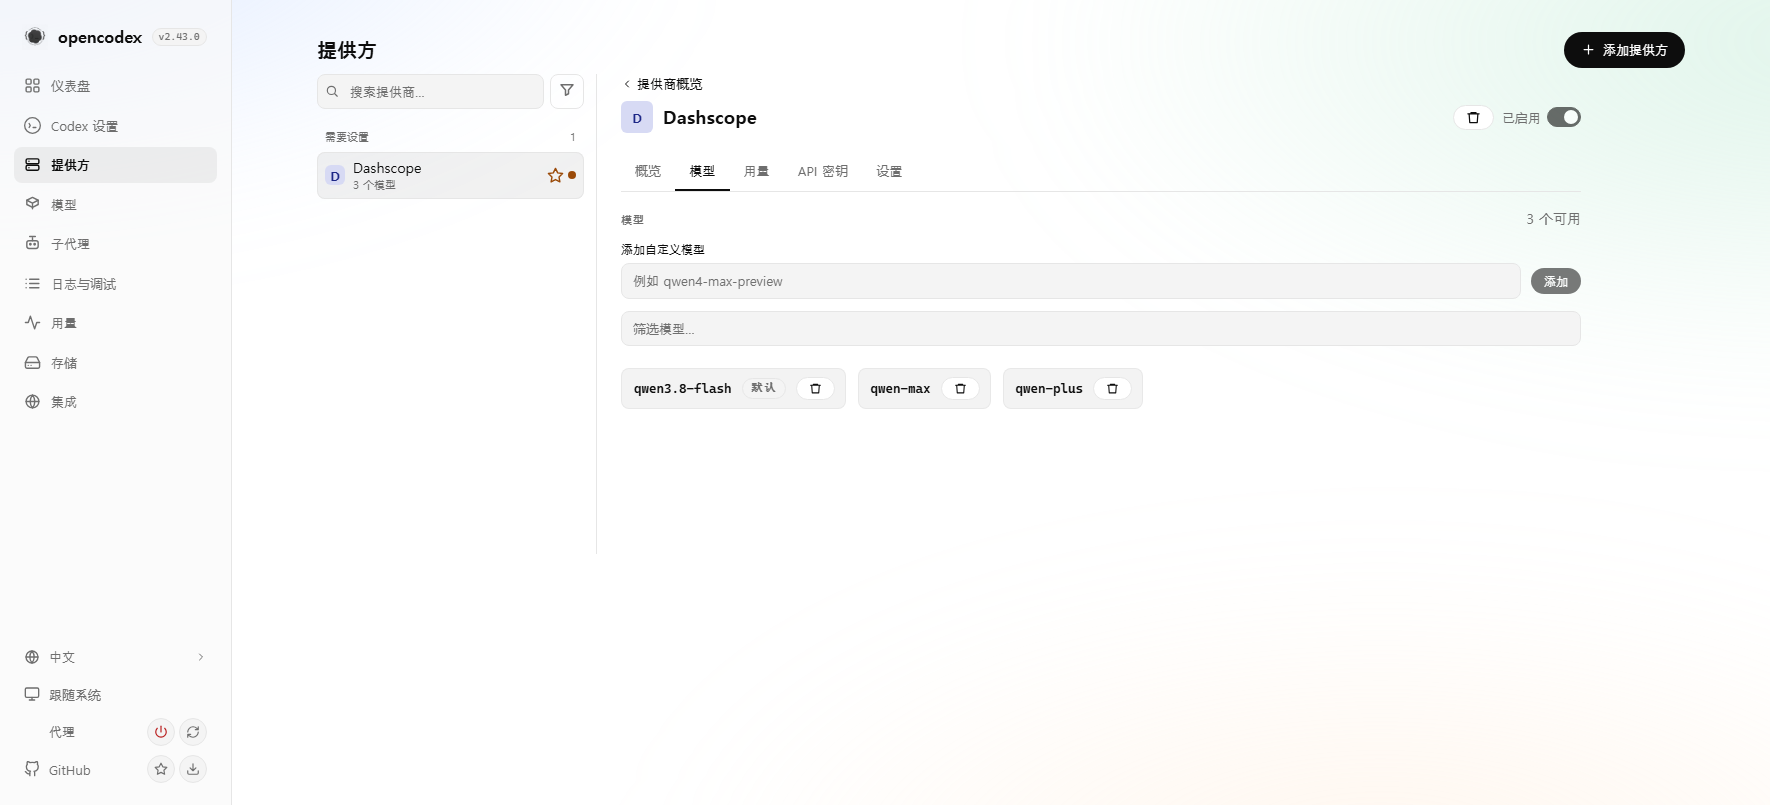
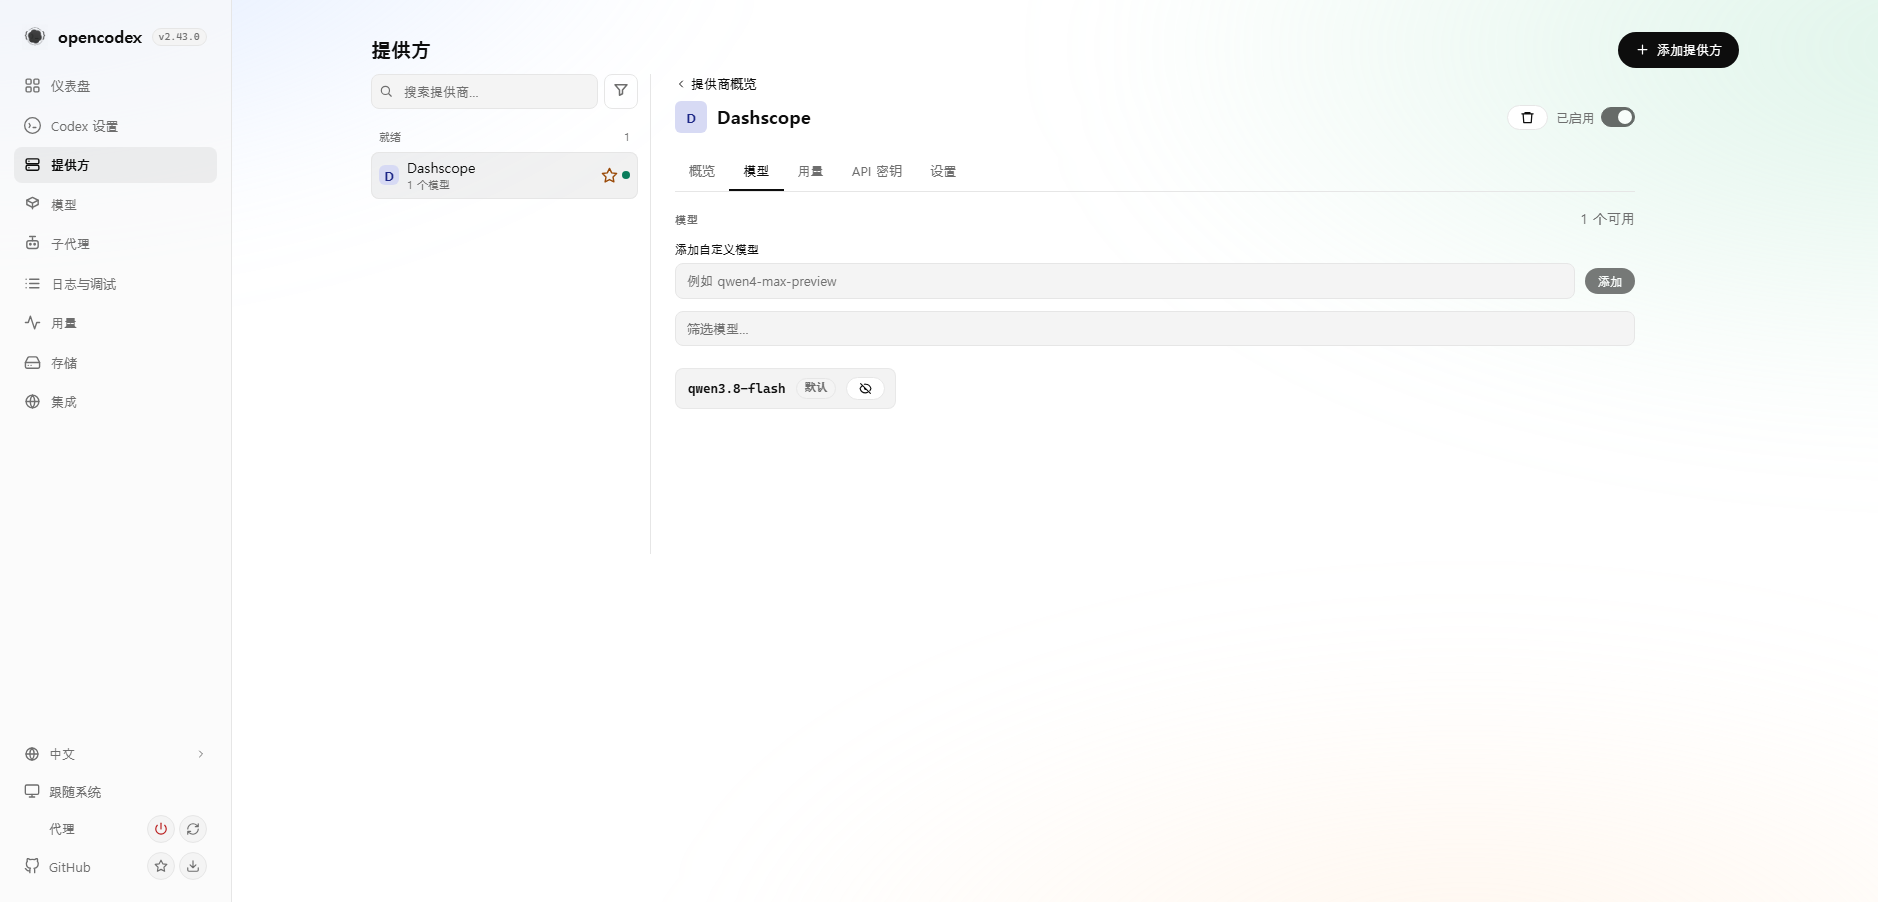
fix(gui): distinguish hidden provider models

diff --git a/gui/src/components/provider-workspace/ProviderModels.tsx b/gui/src/components/provider-workspace/ProviderModels.tsx
@@ -7,7 +7,7 @@ import { useEffect, useMemo, useRef, useState } from "react";
 import { useT } from "../../i18n/shared";
 import type { WorkspaceItem } from "../../provider-workspace/catalog";
 import { filterModels } from "../../provider-workspace/report";
-import { IconTrash } from "../../icons";
+import { IconEyeOff, IconTrash } from "../../icons";
 import { putModelVisibility } from "../../model-visibility";
 import { encodedModelIdCollides } from "../../../../src/providers/slug-codec";
 
@@ -178,8 +178,8 @@ export default function ProviderModels({
   };
 
   const removeModel = async (modelId: string) => {
-    if (removingModelId || !window.confirm(t("models.customDeleteConfirm", { name: modelId }))) return;
     const customModel = customModels.find(model => model.modelId === modelId && model.id);
+    if (removingModelId || !window.confirm(t(customModel ? "models.customDeleteConfirm" : "models.hideConfirm", { name: modelId }))) return;
     const visibilityTarget = { id: modelId, ...(item.name === "openai" ? { native: true } : {}) };
     setRemovingModelId(modelId);
     setCustomError("");
@@ -307,7 +307,9 @@ export default function ProviderModels({
           {visibleModels.map(modelId => {
             const isDefault = modelId === item.defaultModel;
             const isSelected = selectedSet.has(modelId);
+            const isCustom = customModels.some(model => model.modelId === modelId && model.id);
             const copied = copiedId === modelId;
+            const removeLabel = t(isCustom ? "models.customDelete" : "models.hide");
             return (
               <li key={modelId} className="pws-model-chip">
                 <button
@@ -326,10 +328,12 @@ export default function ProviderModels({
                   className="btn btn-ghost btn-sm btn-icon-only"
                   onClick={() => { void removeModel(modelId); }}
                   disabled={customSaving || removingModelId !== null}
-                  aria-label={t("models.customDelete")}
-                  title={t("models.customDelete")}
+                  aria-label={removeLabel}
+                  title={removeLabel}
                 >
-                  <IconTrash style={{ width: 13, height: 13 }} aria-hidden="true" />
+                  {isCustom
+                    ? <IconTrash style={{ width: 13, height: 13 }} aria-hidden="true" />
+                    : <IconEyeOff style={{ width: 13, height: 13 }} aria-hidden="true" />}
                 </button>
               </li>
             );

diff --git a/gui/tests/provider-model-custom-add.test.tsx b/gui/tests/provider-model-custom-add.test.tsx
@@ -299,7 +299,7 @@ test("a custom model stays visible when its visibility update fails", async () =
   await act(async () => { root.unmount(); });
 });
 
-test("discovered models can be removed from the local catalog", async () => {
+test("discovered models are labeled as hidden and removed from the local catalog", async () => {
   const requests: Array<{ url: string; method: string; body: unknown }> = [];
   globalThis.fetch = (async (input, init) => {
     if (!init?.method || init.method === "GET") return Response.json([]);
@@ -310,7 +310,11 @@ test("discovered models can be removed from the local catalog", async () => {
     });
     return Response.json({ ok: true });
   }) as typeof fetch;
-  testWindow.confirm = () => true;
+  let confirmation = "";
+  testWindow.confirm = message => {
+    confirmation = String(message);
+    return true;
+  };
 
   let refreshes = 0;
   const { root, container } = await mountProviderModels(
@@ -321,11 +325,14 @@ test("discovered models can be removed from the local catalog", async () => {
 
   const discoveredChip = [...container.querySelectorAll(".pws-model-chip")]
     .find(chip => chip.querySelector(".pws-model-id")?.textContent === "claude-sonnet-5")!;
+  const hideButton = discoveredChip.querySelector<HTMLButtonElement>('button[aria-label="Hide"]')!;
+  expect(hideButton.title).toBe("Hide");
   await act(async () => {
-    discoveredChip.querySelector<HTMLButtonElement>('button[aria-label="Delete"]')!.click();
+    hideButton.click();
     await Promise.resolve();
   });
 
+  expect(confirmation).toBe("Hide the claude-sonnet-5 model from the catalog?");
   expect(requests).toEqual([{
     url: "http://localhost:10100/api/model-visibility",
     method: "PUT",
@@ -363,7 +370,7 @@ test("native OpenAI models use a native visibility target when removed", async (
   await act(async () => { await Promise.resolve(); });
 
   await act(async () => {
-    container.querySelector<HTMLButtonElement>('button[aria-label="Delete"]')!.click();
+    container.querySelector<HTMLButtonElement>('button[aria-label="Hide"]')!.click();
     await Promise.resolve();
   });
 

diff --git a/gui/src/icons.tsx b/gui/src/icons.tsx
@@ -24,6 +24,7 @@ export const IconRefresh = (p: P) => (<svg {...S(p)}><path d="M21 12a9 9 0 0 1-9
 export const IconPause = (p: P) => (<svg {...S(p)}><path d="M8 5v14M16 5v14"/></svg>);
 export const IconPlay = (p: P) => (<svg {...S(p)}><path d="m7 4 13 8-13 8Z"/></svg>);
 export const IconTrash = (p: P) => (<svg {...S(p)}><path d="M3 6h18M8 6V4h8v2M19 6l-1 14H6L5 6"/></svg>);
+export const IconEyeOff = (p: P) => (<svg {...S(p)}><path d="m3 3 18 18M10.6 10.6a2 2 0 0 0 2.8 2.8M9.9 4.2A10.8 10.8 0 0 1 12 4c5 0 9 4 10 8a12.7 12.7 0 0 1-2 4.1M6.6 6.6A12.4 12.4 0 0 0 2 12c1 4 5 8 10 8 1.5 0 2.9-.4 4.1-1"/></svg>);
 export const IconPencil = (p: P) => (<svg {...S(p)}><path d="M12 20h9"/><path d="M16.5 3.5a2.1 2.1 0 0 1 3 3L7 19l-4 1 1-4Z"/></svg>);
 export const IconAlert = (p: P) => (<svg {...S(p)}><path d="M10.3 3.7 1.8 18a2 2 0 0 0 1.7 3h17a2 2 0 0 0 1.7-3L13.7 3.7a2 2 0 0 0-3.4 0Z"/><path d="M12 9v4M12 17h.01"/></svg>);
 export const IconInfo = (p: P) => (<svg {...S(p)}><circle cx="12" cy="12" r="10"/><path d="M12 16v-4M12 8h.01"/></svg>);

diff --git a/tests/codex-integration/codex-catalog.test.ts b/tests/codex-integration/codex-catalog.test.ts
@@ -599,6 +599,18 @@ describe("combo catalog capability intersection", () => {
       .toEqual([]);
   });
 
+  test("filters dashboard-hidden provider models before catalog sync", () => {
+    const models = [
+      { provider: "vendor", id: "visible-model" },
+      { provider: "vendor", id: "hidden-model" },
+    ];
+
+    expect(filterCatalogVisibleModels(models, {
+      disabledModels: ["vendor/hidden-model"],
+      providers: { vendor: {} },
+    })).toEqual([{ provider: "vendor", id: "visible-model" }]);
+  });
+
   test("repairs a provider row after its shadowing combo alias is disabled", () => {
     const alias = "vendor/deepseek-v4-flash";
     const combo = deriveComboCatalogModel(

diff --git a/gui/src/i18n/ru.ts b/gui/src/i18n/ru.ts
@@ -590,6 +590,8 @@ export const ru: Record<TKey, string> = {
   "models.customEdit": "Изменить",
   "models.customDelete": "Удалить",
   "models.customDeleteConfirm": "Удалить модель {name}?",
+  "models.hide": "Скрыть",
+  "models.hideConfirm": "Скрыть модель {name} из каталога?",
   "models.customBadge": "Пользовательская",
   "models.customSummary": "Пользовательских: {count}",
   "models.customFieldModelId": "ID модели (slug эндпоинта)",

diff --git a/gui/src/i18n/ko.ts b/gui/src/i18n/ko.ts
@@ -588,6 +588,8 @@ export const ko: Record<TKey, string> = {
   "models.customEdit": "편집",
   "models.customDelete": "삭제",
   "models.customDeleteConfirm": "{name} 모델을 삭제하시겠습니까?",
+  "models.hide": "숨기기",
+  "models.hideConfirm": "{name} 모델을 카탈로그에서 숨기시겠습니까?",
   "models.customBadge": "커스텀",
   "models.customSummary": "커스텀 {count}개",
   "models.customFieldModelId": "모델 ID (엔드포인트 슬러그)",

diff --git a/gui/src/i18n/fr.ts b/gui/src/i18n/fr.ts
@@ -587,6 +587,8 @@ export const fr: Record<TKey, string> = {
   "models.customEdit": "Modifier",
   "models.customDelete": "Supprimer",
   "models.customDeleteConfirm": "Supprimer le modèle {name} ?",
+  "models.hide": "Masquer",
+  "models.hideConfirm": "Masquer le modèle {name} du catalogue ?",
   "models.customBadge": "Personnalisé",
   "models.customSummary": "{count} personnalisés",
   "models.customFieldModelId": "ID du modèle (slug du point de terminaison)",

diff --git a/gui/src/i18n/de.ts b/gui/src/i18n/de.ts
@@ -577,6 +577,8 @@ export const de: Record<TKey, string> = {
   "models.customEdit": "Bearbeiten",
   "models.customDelete": "Löschen",
   "models.customDeleteConfirm": "Modell {name} löschen?",
+  "models.hide": "Ausblenden",
+  "models.hideConfirm": "Modell {name} aus dem Katalog ausblenden?",
   "models.customBadge": "Benutzerdefiniert",
   "models.customSummary": "{count} benutzerdefiniert",
   "models.customFieldModelId": "Modell-ID (Endpunkt-Slug)",

diff --git a/gui/src/i18n/ja.ts b/gui/src/i18n/ja.ts
@@ -2315,6 +2315,8 @@ export const ja: Record<TKey, string> = {
   "models.customEdit": "Edit",
   "models.customDelete": "Delete",
   "models.customDeleteConfirm": "Delete the {name} model?",
+  "models.hide": "非表示",
+  "models.hideConfirm": "モデル {name} をカタログから非表示にしますか？",
   "models.customBadge": "Custom",
   "models.customSummary": "{count} custom",
   "models.customFieldModelId": "Model ID (endpoint slug)",

diff --git a/gui/src/i18n/zh.ts b/gui/src/i18n/zh.ts
@@ -585,6 +585,8 @@ export const zh: Record<TKey, string> = {
   "models.customEdit": "编辑",
   "models.customDelete": "删除",
   "models.customDeleteConfirm": "要删除模型 {name} 吗？",
+  "models.hide": "隐藏",
+  "models.hideConfirm": "要从目录中隐藏模型 {name} 吗？",
   "models.customBadge": "自定义",
   "models.customSummary": "{count} 个自定义模型",
   "models.customFieldModelId": "模型 ID（端点标识）",

diff --git a/gui/src/i18n/zh-TW.ts b/gui/src/i18n/zh-TW.ts
@@ -456,6 +456,8 @@ export const zhTW: Record<TKey, string> = {
   "models.customEdit": "編輯",
   "models.customDelete": "刪除",
   "models.customDeleteConfirm": "要刪除模型 {name} 嗎？",
+  "models.hide": "隱藏",
+  "models.hideConfirm": "要從目錄中隱藏模型 {name} 嗎？",
   "models.customBadge": "自訂",
   "models.customSummary": "{count} 個自訂模型",
   "models.customFieldModelId": "模型 ID（端點標識）",

diff --git a/gui/src/i18n/tr.ts b/gui/src/i18n/tr.ts
@@ -593,6 +593,8 @@ export const tr: Record<TKey, string> = {
   "models.customEdit": "Düzenle",
   "models.customDelete": "Sil",
   "models.customDeleteConfirm": "{name} modeli silinsin mi?",
+  "models.hide": "Gizle",
+  "models.hideConfirm": "{name} modeli katalogda gizlensin mi?",
   "models.customBadge": "Özel",
   "models.customSummary": "{count} özel",
   "models.customFieldModelId": "Model ID",
